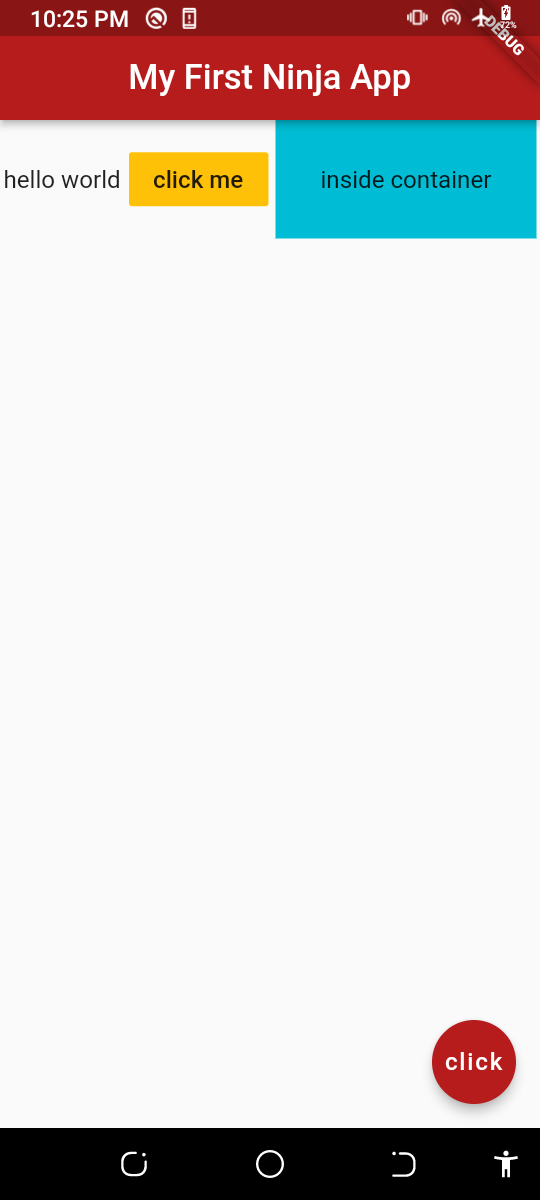
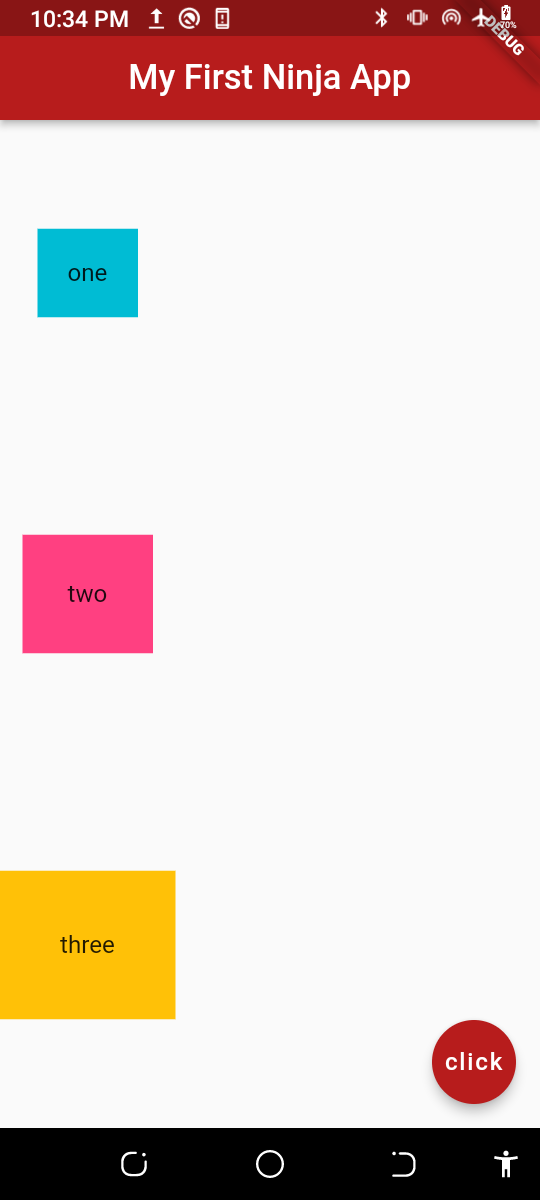
Columns

diff --git a/My app/myapp/lib/main.dart b/My app/myapp/lib/main.dart
@@ -15,22 +15,25 @@ class Home extends StatelessWidget {
         centerTitle: true,
         backgroundColor: Colors.red[900],
       ),
-      body: Row(
+      body: Column(
         mainAxisAlignment: MainAxisAlignment.spaceAround,
         crossAxisAlignment: CrossAxisAlignment.center,
         children: <Widget>[
-          const Text('hello world'),
-          FlatButton(
-            onPressed: (){},
-            color:Colors.amber,
-            child: const Text('click me')
-          ),
-
           Container(
+            padding: const EdgeInsets.all(20.0),
             color: Colors.cyan,
+            child: const Text('one'),
+          ),
+          Container(
             padding: const EdgeInsets.all(30.0),
-            child: const Text('inside container'),
-          )
+            color: Colors.pinkAccent,
+            child: const Text('two'),
+          ),
+          Container(
+            padding: const EdgeInsets.all(40.0),
+            color: Colors.amber,
+            child: const Text('three'),
+          ),
         ],
       ),
       floatingActionButton: FloatingActionButton(
